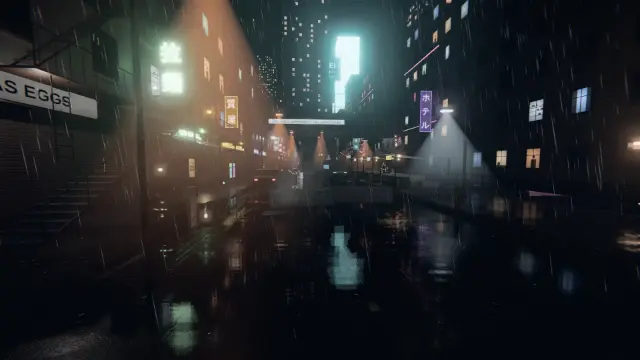
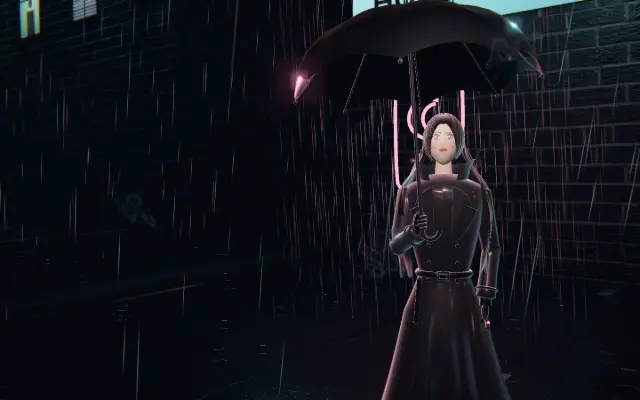
Site (plan item 203, slice 1): NIGHT SHIFT's key art is Cath under her umbrella on the title street (keyart.mjs shoots the frozen title with its DOM hidden); its /games/ poster drops the grey sticker Cath; notes
Claude-Session: https://claude.ai/code/session_01SimvMP2VJHU8fbDi3WFh5A

diff --git a/e2e-site/games-cath.spec.ts b/e2e-site/games-cath.spec.ts
@@ -1,7 +1,8 @@
 import { test, expect } from '@playwright/test'
 
 // Plan item 108: each /games/ poster carries Cath in that game's dress, pose and mood: four distinct poses,
-// each covering 15% or less of its card's art, and NIGHT SHIFT's in noir (greyscale, a red rim).
+// each covering 15% or less of its card's art, and NIGHT SHIFT's in noir (greyscale, a red rim). Plan item 203:
+// NIGHT SHIFT's key art now shows Cath herself, so its sticker is drawn but not displayed (cover 0).
 test("each game's poster has its own Cath, small beside the game's art", async ({ page }) => {
   await page.goto('/games/')
   await page.waitForFunction(() => document.documentElement.classList.contains('ready'))

diff --git a/site/src/styles.css b/site/src/styles.css
@@ -1487,6 +1487,9 @@ body {
   filter: grayscale(1) brightness(0.7) contrast(1.15) drop-shadow(2px 0 0 var(--cd-blood)) drop-shadow(0 6px 10px var(--shadow-deep));
 }
 .hero-game-cath svg { display: block; width: 100%; height: auto; }
+/* Plan item 203: NIGHT SHIFT's key art is Cath herself under her umbrella on the title street, so its poster drops the
+   sticker (two Caths side by side read as a ghost). */
+.hero-game-nightshift .hero-game-cath { display: none; }
 .hero-game-text {
   display: grid;
   gap: 4px;

diff --git a/PROGRESS.md b/PROGRESS.md
@@ -3,7 +3,7 @@
 Short by design (SPEC 16: under 150 lines). v1's full history (M0 to M7, every session's notes and the full deploy log) is in `docs/archive/PROGRESS-v1.md`; search it with grep and never read it in full.
 
 ## Now
-- Lane A (11:51): planning (shots `e2e/screenshots/plan1106d`, subagent critique, items 201-205); item 200 **done** (List rumours inset); item 201 slices 1-2 (lane A, in progress; open: Hedgerow 3D l21 top edge and depot roof, NS P title band). **Today's 19:51 session releases.**
+- Lane A (12:51): item 201 **done** (3D far houses settle in or out of the frame); item 204 **done** (Setup flyer, place cards, pin tin); item 203 slice 1 (NS key art from the title street with Cath; open: light her for 2x luminance, the `/` crop). **Today's 19:51 session releases.**
 - Critique bugs from the 09:35 shots (`e2e/screenshots/plan1103d/`): NIGHT SHIFT wordmark reportedly drops both 'H's at L and D (unconfirmed; the 14:55 D shot shows it whole). Runnel P's spring house and garden: closed 2026-11-04 (item 106).
 - Lane B: item 198 **done** (every Hedgerow act has a 3D biome; the per-act turf/fog tint cut, the acts already carry their own grass and light). Items 126, 138, 182 still claimed (2026-11-06 13:22 session).
 - Critique bugs from the 2026-11-05 09:30 shots (`e2e/screenshots/plan1105c/`, lane B): `cath-title-D` pennant hint ~13 px white on brown (1030-1280 x 800-818) and footer ~12 px (310-1130 x 872-886); `cath-title-P` small keys' labels ~12 px (85-305 x 692-735); `cath-setup-D` seed 'random' low contrast (655-840 x 795-835); `hedge-l34-2d-D` '485 coming' over a farmer (300-395 x 128-150); `hedge-menu-P` 'Brand Ambassador' on the road (10-95 x 450-480); `ns-title-D` neon sign clipped at the top (790-1150 x 0-45); `ns-play-P` FIXER tab cut (340-390 x 68-82); `games-P` hero ghosted (likely shot mid-entrance: check before fixing).
@@ -37,6 +37,7 @@ None (Vercel deployed 9aee11e on 2026-10-12). (The App Store launch is postponed
 
 ## Session log (newest first, last 15)
 - **2026-11-06 13:22 lane B session:** CI green on 4bd1036. Item 198 slice 5 and done (Ballot, Merger, Kingsmarket). Passing: hedgerow-biome3d (all acts), -depot, -dressing3d, -farhouses3d (phone and desktop). Shots `t198` (l75, l85, l95).
+- **2026-11-06 12:51 lane A session:** CI green on 49ba26b. Item 201 slice 3 and done (`4bd10362`); item 204 slices 1-2 and done (`33351ae8`, `85d12771`); item 203 slice 1 (NS key art re-shot from the title street). Passing: games-cath, games-cards but its sunset hero-text test (times out on the old code too while the full check ran), games-stall, keyart-fresh, portfolio; hedgerow-farhouses3d (new), -depot3d, -biome3d, -3dframe but its known l21 phone gate-plate test (site phone and desktop); setup-placecards (new), setup-desktop, setup-table, setup-phone, setup-spread, setup-maps, accessibility, csp, quick-game, layouts (phone and desktop); CSS lint, eslint, tsc. Full `npm run check`: see below. Shots `i201b` (Hedgerow and NS plan sets, before/after), `i204` (Setup D, 1280, P, light and dark).
 - **2026-11-06 11:51 lane A session:** CI green on fabcccd. Planning (items 201-205, shots `plan1106d`); item 200 slice 5 and done (`54736429`); item 201 slices 1-2 (`292565c0`, `7c38be9c`). Passing: cathode-front (42), cathode-listwall (with the new inset check); campaign, campaign-map, campaign-cath, campaign-vignettes, setup-desktop, setup-table, setup-phone (phone and desktop); hedgerow-depot (new rep gap), hedgerow-depot3d; CSS lint, cathode-type, eslint, tsc. Full `npm run check` not run (time); CI covers it. Shots `i201` (Cathnivore and Hedgerow plan sets, NS pick at 15/35 s), scratchpad list-1440.
 - **2026-11-06 12:22 lane B session:** CI green on fabcccd (5473642's red cancelled). Item 198 slice 4 (Oakvale, The Rift). Passing: hedgerow-biome3d (7 acts), -depot, -dressing3d (phone and desktop). Shots `t198` (l45 and l65).
 - **2026-11-06 11:21 lane B session:** CI green on e59c0da (cf95ade's red cancelled). Item 198 slice 3 (Highmoor, Shingle Bay). Passing: hedgerow-biome3d (5 acts), -depot, -dressing3d, -3dframe but the known level-21 phone gate-plate test. Shots `t198` (l15 and l55, P and D).
@@ -50,4 +51,3 @@ None (Vercel deployed 9aee11e on 2026-10-12). (The App Store launch is postponed
 - **2026-11-06 06:51 lane A session:** CI: 701b22a's red was a cancelled run (e9b2633 running at start). Item 194 slice 2 (`3276b221`). Passing: cathode-front (41 with the new 'never meet' spec, phone and desktop), cathode-list-strike; cathode-type and CSS lint, eslint, tsc. Full `npm run check` not run (time); CI covers it. Shots (scratchpad): ns-title D at 1440, 1920, 1366, 1280 before and after, P after; Hedgerow plan shots.
 - **2026-11-06 07:21 lane B session:** CI green on e9b2633. Item 191 done. Passing: hedgerow-camera3d (new), -3dframe, -depot, -cath3d, -dressing3d, -gatequeue (phone and desktop). Shots `t191` (D and L, before and mid-dolly).
 - **2026-11-06 05:51 lane A session:** CI green on ead6354. Item 190 slices 1-2 and done; item 194 slice 1. Passing: board-scale (new), round-ledger unit (new), desktop-no-scroll (round-7 1280 flaked once on a random deal, passed x2), board-tokens, plan-corp, plan-cards, plan-strip, rival (medallion 56 px), table-cath, table-hand, table-producers, board-objects, ability-moment, accessibility, layouts, turn-show, saving-goal, threat-badge, action-hand (fixed a failure dating from item 183), farm-stall, setup-desktop, setup-maps, player-mat, farmstead (phone and desktop); CSS lint, eslint, tsc. Full `npm run check` not run (time); CI covers it. Shots `i190`, `i194`.
-- **2026-11-06 06:21 lane B session:** CI green on ead6354. Item 193 slice 3 and done. Passing: runnel units (96, dailies unchanged), runnel-weekly, every runnel-* spec (lesson-close and practice flaked once under 2 workers, passed alone) at phone and desktop. Shots `t193` (s2 fresh and won, P and D).

diff --git a/docs/plan/two-week-plan.md b/docs/plan/two-week-plan.md
@@ -2268,7 +2268,7 @@ The items come from fresh-eyes audits on 2026-11-01 and 2026-11-02 (items 25-32:
 - **Accept:** the stage reports `margin` per act (`window.hedgerow.margin2d()`); no two identical pieces within 200 px (unit test on the placer); 2D frame time within +10% (`scripts/hedgerow-drawcalls.mjs` or the fps probe); `?2d` field specs pass; shots P and D, levels 21, 34 and one Highmoor level.
 - **Size:** 2-3
 
-## 203. [ ] Site: NIGHT SHIFT's key art as a lit noir poster, with Cath *(lane A, in progress)*
+## 203. [ ] Site: NIGHT SHIFT's key art as a lit noir poster, with Cath *(lane A, in progress)* *(slice 1, 2026-11-06 13:35 lane A: `scripts/keyart.mjs`'s `nightshift` shoot is the title street frozen (`?shot`, quality high) with every DOM layer hidden: Cath under her umbrella in the neon key light at right, the left kept dark; her figure ~75% of the frame's height; `KEYART_SOURCES.nightshift` now the front scene files; /games/ drops the poster's grey sticker Cath for NIGHT SHIFT (`display: none`, games-cath passes). **Short:** mean luminance in her box 33.1 -> 38.4 (1.16x, the plan asks 2x): her black trench. Open: a key-art light on her (a warm key or rim on coat and face for the shoot), then re-shoot; on `/` the stacked frames' Cath cut-out covers her (only the umbrella shows), so check the poster crop there)*
 - **Why:** `plan1106d/portfolio-D`: the NIGHT SHIFT frame (790-1030 x 425-640) is a murky blur with no Cath, the weakest image on the page; on `games-D` its poster's Cath is a grey ghost (1265-1310 x 590-690).
 - **Build:**
   - A `?keyart` framing in NIGHT SHIFT (like Cathnivore's, Runnel's and Hedgerow's): Cath front three-quarter under her umbrella in the street's key light, a neon rim, the wordmark's space kept clear.

diff --git a/DECISIONS.md b/DECISIONS.md
@@ -303,3 +303,5 @@ Newest at the bottom. At most 5 lines per entry, under 250 lines in all (SPEC 16
 - 2026-11-06 12:25 (lane A): planned items 201-205 from the `plan1106d` critique; dropped the critique's card-art, journey-stop and Runnel-Cath features as already done (items 83, 73/111/124/153, 122/151/165) and kept its new gaps (2D margins per act, NS key art, setup's left column, a painted face texture).
 - 2026-11-06 12:25 (lane A): the NS List rumours can't take a smaller hand (C13T's six sizes), so the inset came from shortening the Plaza rumour's copy instead; the List's top stays 4-14 px under the menu from 1280 to 2560.
 - 2026-11-06 13:22 (lane B): item 198 closed without a new per-act turf and fog tint: each act already has its own grass palette, light and mood (palette.ts), and the biome sets give each its place; a second tint layer would have fought them.
+- 2026-11-06 13:05 (lane A, item 201): Hedgerow 3D's far houses are settled against the fitted camera (not the live one, which can be mid-ease when the level loads): each steps toward the field, no nearer than 1.8 cells (verge.ts's reserved band; 3 behind act 9's wall), until it's whole in the frame, else steps back out of it. At 1440x900 the band above the fence is too short for any whole house, so they all step back; on an upright phone they come forward.
+- 2026-11-06 13:25 (lane A, item 204): Setup's place cards are the existing mode labels restyled at D (the radios and aria labels unchanged, the old 'Solo with an AI' text kept for screen readers only); the phone keeps item 54's chairs. The column's spare height went to Cath's pin tin (the flyer's own promise, made visible) rather than stretching the place cards past the plan's 160 px.
